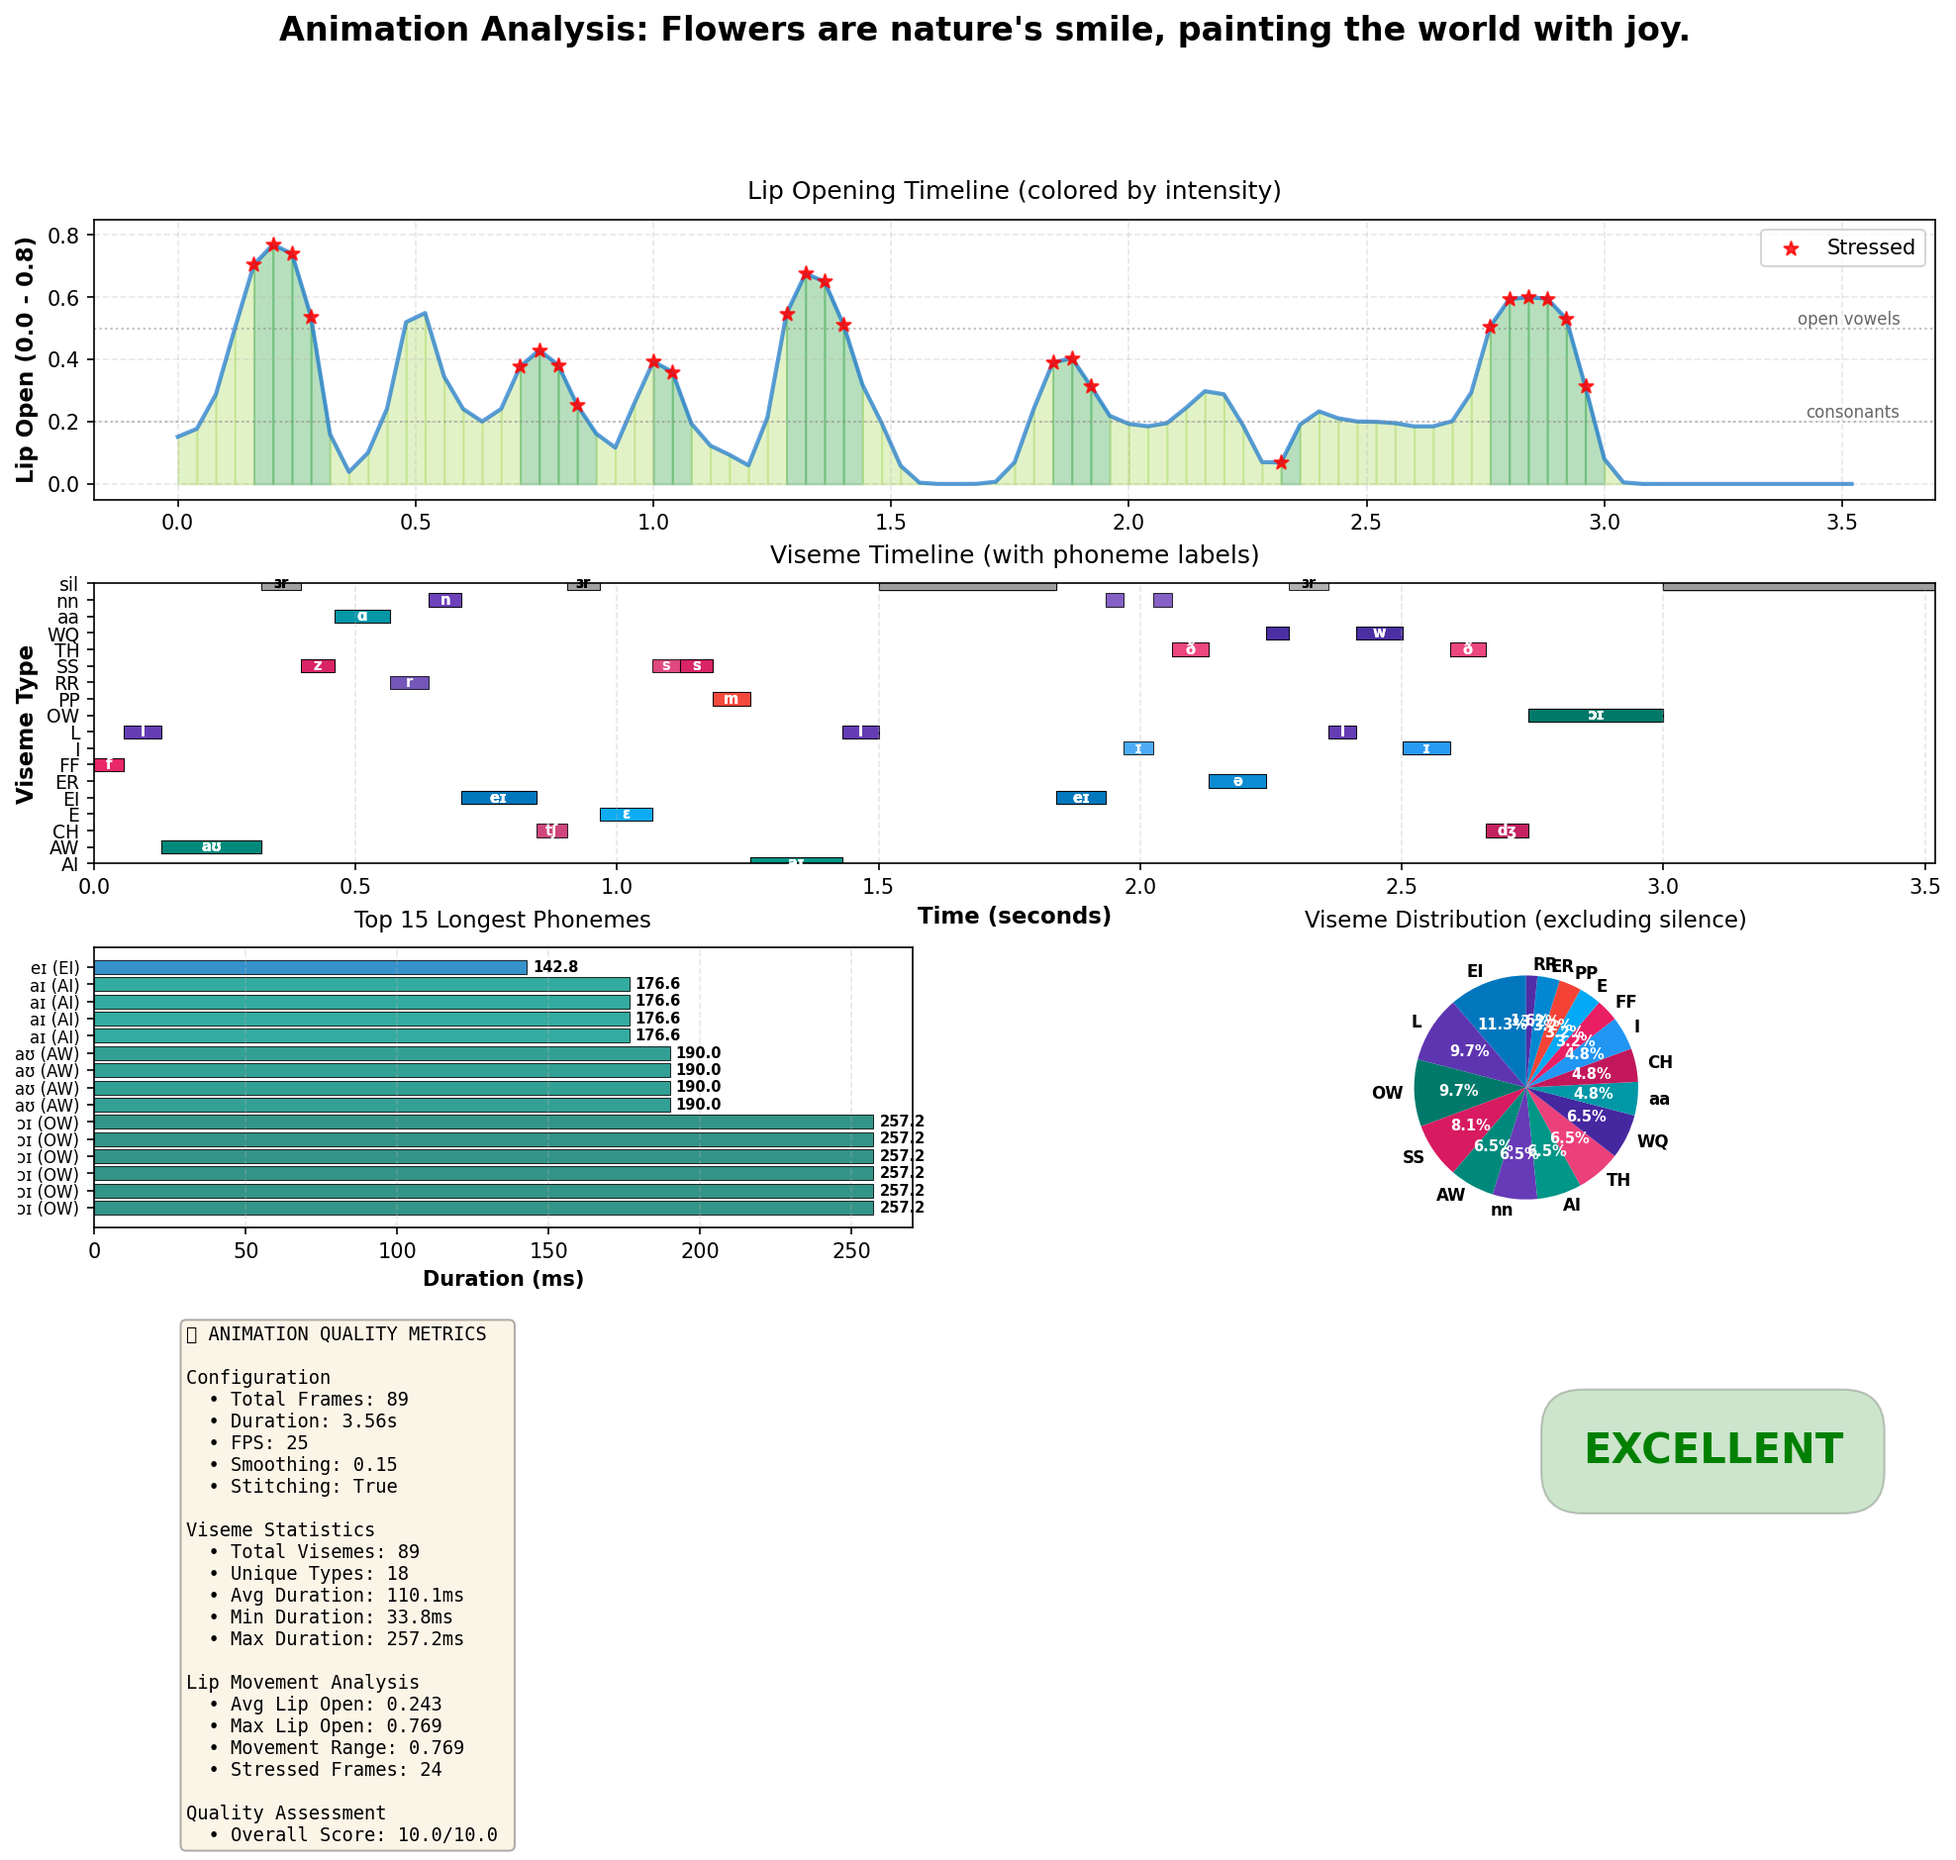
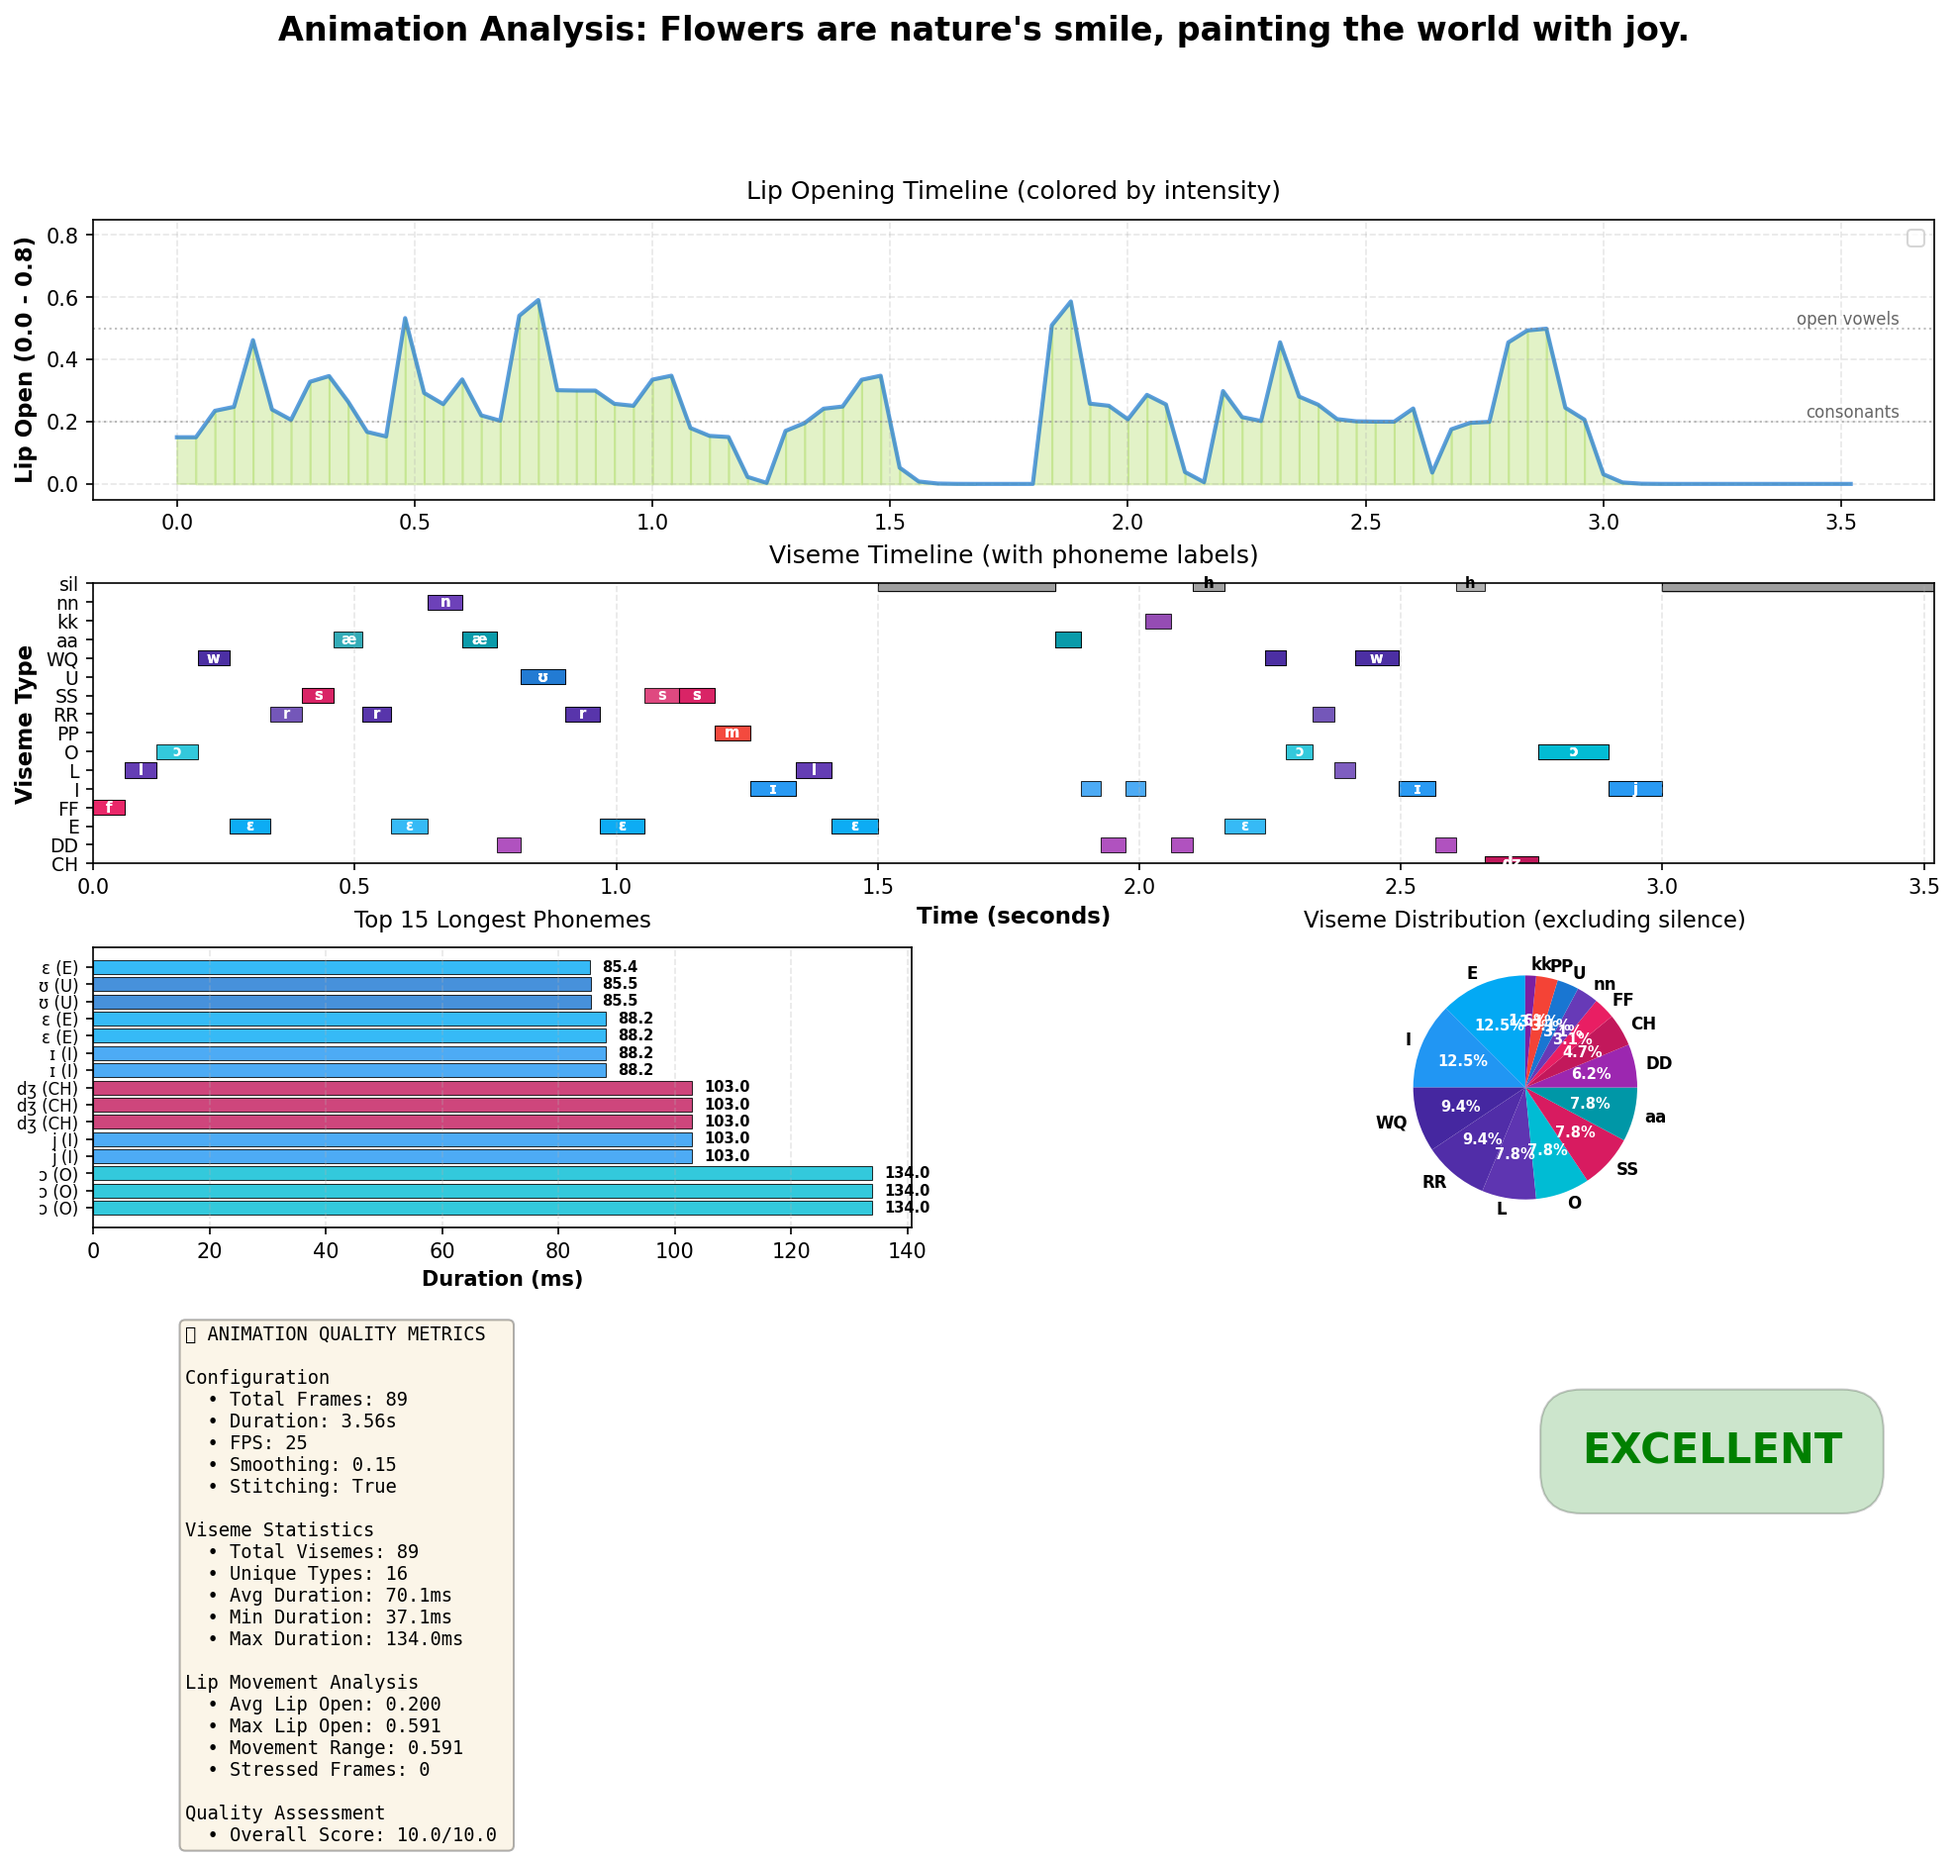
analysis gradio fixed

diff --git a/app_text.py b/app_text.py
@@ -14,6 +14,7 @@ from src.config.inference_config import InferenceConfig
 from src.config.crop_config import CropConfig
 from src.config.argument_config import ArgumentConfig
 from src.utils.io import load_image_rgb
+import matplotlib.pyplot as plt 
 
 # Initialize configurations
 args = ArgumentConfig()
